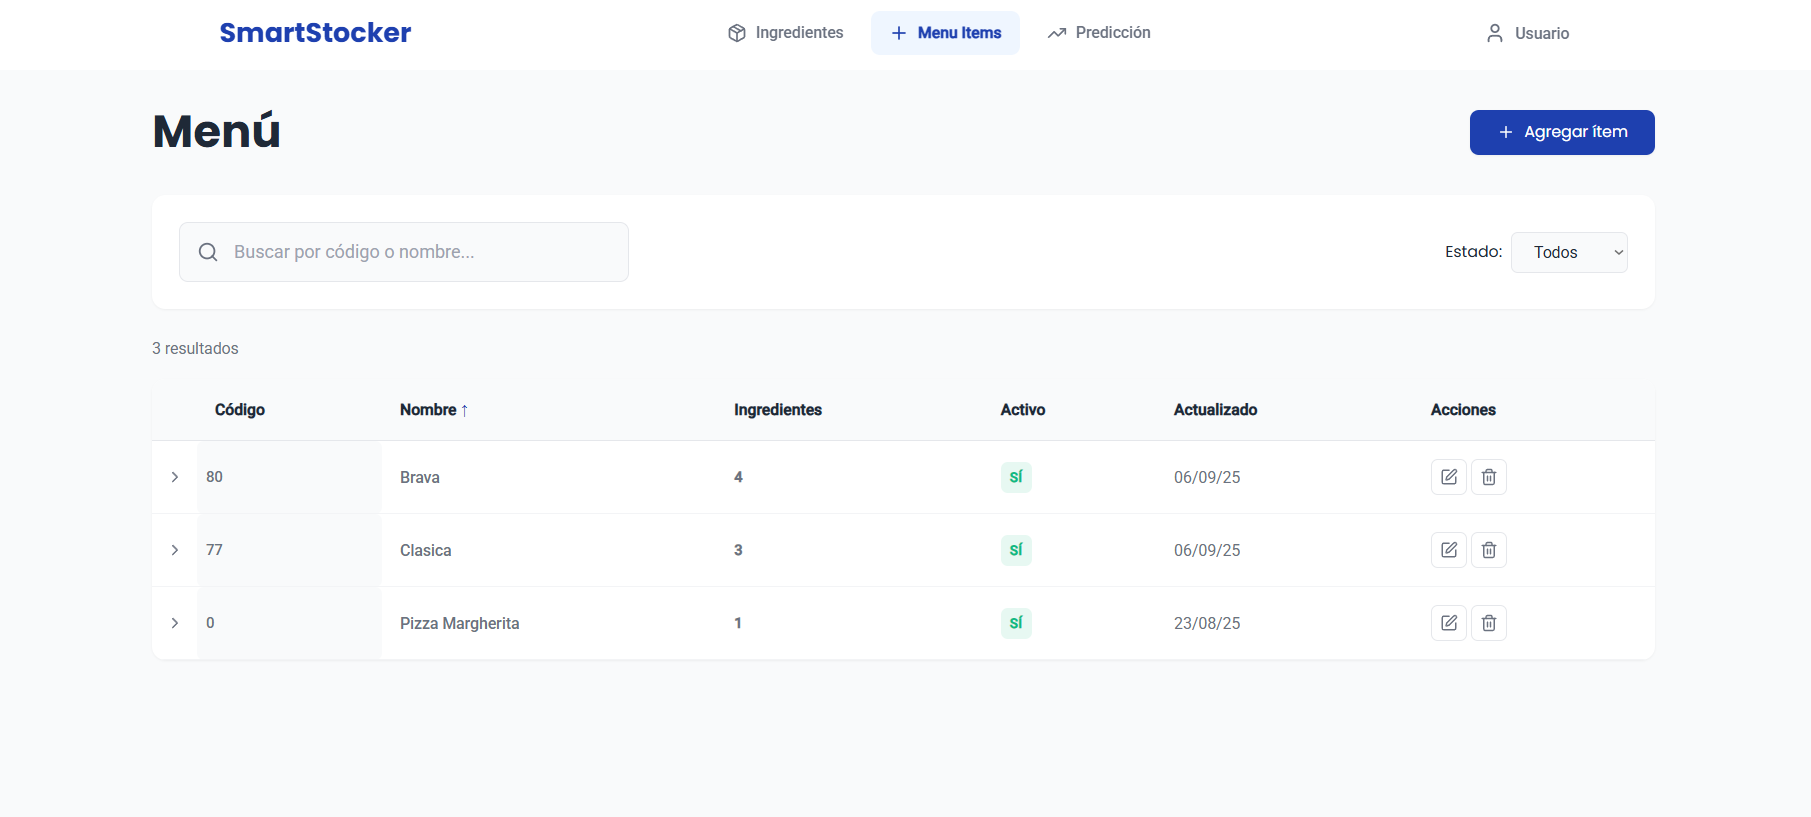
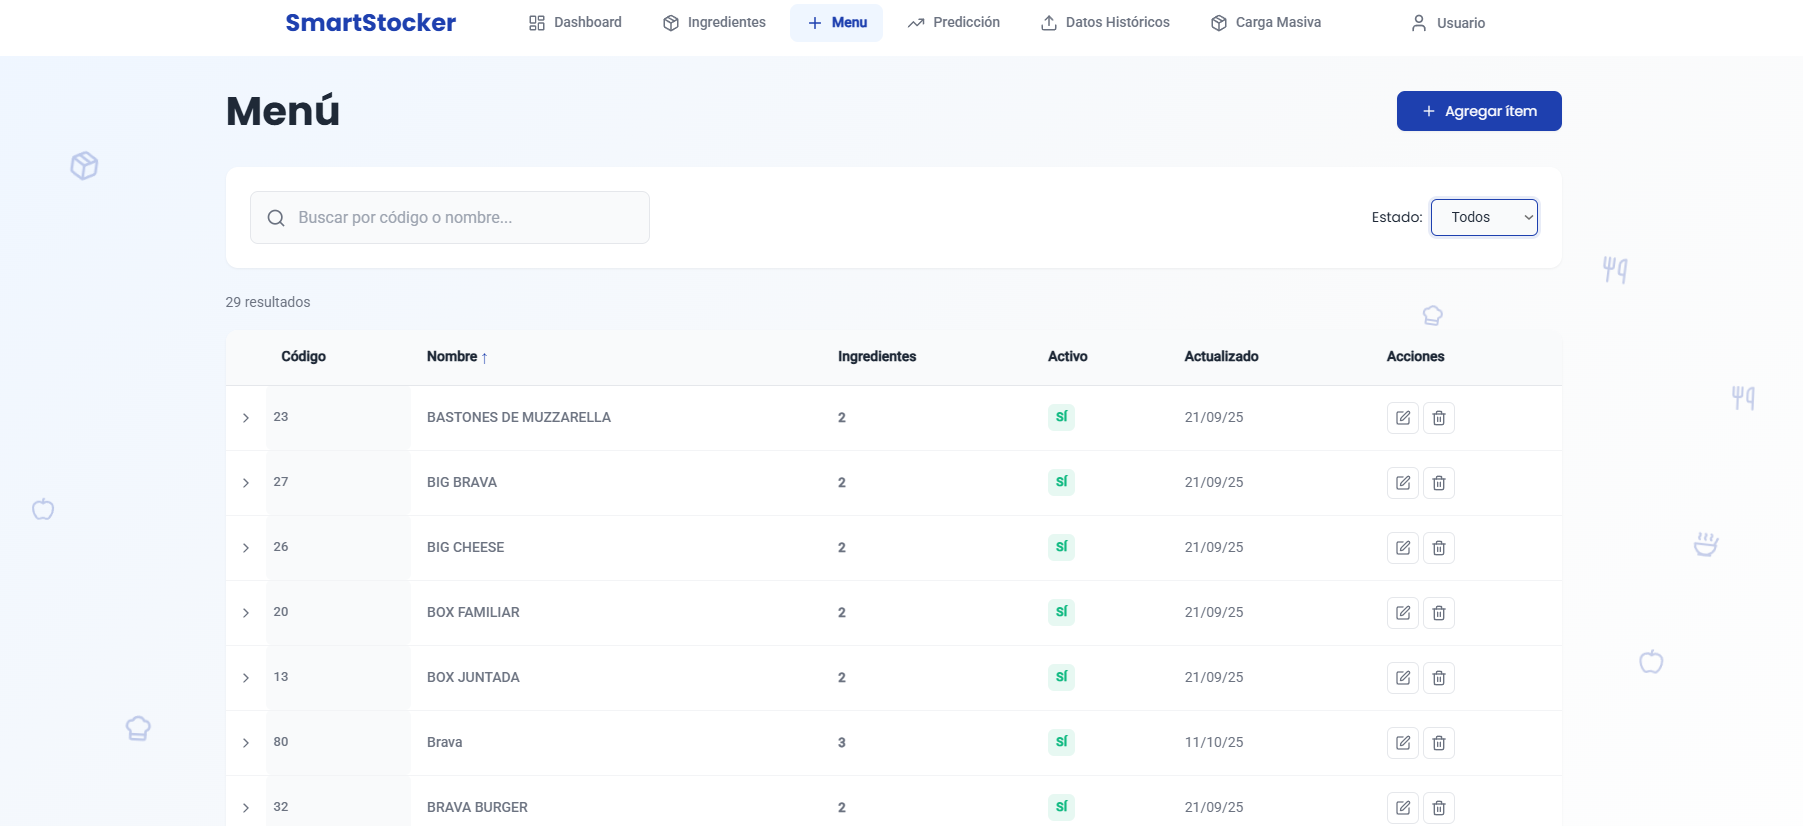
identidad de marca actualizado con logotipo y plataforma

diff --git a/chapters/chapter04.tex b/chapters/chapter04.tex
@@ -85,7 +85,44 @@ La capacidad de anticipar la demanda de productos constituye la funcionalidad ce
     \label{fig:flujo-prediccion}
 \end{figure}
 
-\section{Diseño UX / UI}
+\section{Identidad de marca}\label{subsec:identidad-marca}
+SmartStocker es una marca centrada en la toma de decisiones basada en datos para la gestión de inventarios gastronómicos. Su identidad se sostiene en tres ejes: claridad (información entendible y accionable), confiabilidad (resultados consistentes) y agilidad (respuestas oportunas para planificar compras y evitar quiebres o excedentes). La narrativa de marca comunica simplicidad y precisión: transformar registros de venta y contexto operativo en recomendaciones concretas de stock y alertas preventivas.
+
+\subsection{Misión}\label{subsec:mision}
+Impulsar la rentabilidad de restaurantes y locales gastronómicos mediante una plataforma que integra datos de venta en tiempo real, predice la demanda y traduce esos resultados en recomendaciones de compra y niveles de stock accionables. SmartStocker reduce quiebres y desperdicios, simplifica la operación diaria y convierte la gestión de inventario en un proceso preciso, automatizado y basado en evidencia.
+
+\subsection{Visión}\label{subsec:vision}
+Ser la referencia regional en optimización de inventarios gastronómicos mediante analítica predictiva, integrando datos operativos y conocimiento experto para elevar la toma de decisiones cotidiana.
+
+\subsection{Nombre}\label{subsec:nombre}
+El nombre SmartStocker combina \textit{Smart} (inteligente) y \textit{Stocker} (almacenista). La construcción comunica de manera directa el beneficio central: administrar inventarios con inteligencia. Es breve, fácil de pronunciar y recordar, y al estar en inglés facilita su adopción en distintos mercados y contextos tecnológicos.
+
+\subsection{Identidad visual}\label{subsec:identidad-visual}
+\paragraph{Concepto.} La identidad visual representa el pasaje de datos a decisiones. Se recurre a formas claras y proporciones estables que remiten a control, previsión y orden, evitando recursos recargados que resten legibilidad en entornos digitales.
+
+\paragraph{Logotipo tipográfico.}
+El logotipo tipográfico prioriza legibilidad y memorabilidad. La diferenciación visual se logra por color: \textit{Smart} en tono oscuro (negro/gris muy profundo) y \textit{Stocker} en azul corporativo, lo que facilita la lectura y refuerza el territorio semántico del producto (gestión de stock). Además, se utiliza capitalización inicial en cada palabra y composición en una sola línea.
+
+\begin{figure}[htbp]
+    \centering
+    \includegraphics[width=0.80\textwidth]{images/smartstocker-logotipo-tipografico.png}
+    \caption{Logotipo tipográfico de SmartStocker.}
+    {\textit{Fuente: Elaboración propia.}}
+    \label{fig:logo-tipografico-smartstocker}
+\end{figure}
+
+\paragraph{Imagotipo (isotipo + logotipo).}
+El imagotipo integra un isotipo geométrico que sugiere \textit{contenedor/caja} (inventario) y una flecha ascendente (proyección/abastecimiento), combinado con el logotipo. El isotipo admite uso independiente en tamaños reducidos (favicon, icono de app), mientras que el imagotipo es la versión preferente para cabeceras, presentaciones y piezas institucionales.
+
+\begin{figure}[htbp]
+    \centering
+    \includegraphics[width=0.70\textwidth]{images/smartstocker-imagotipo.png}
+    \caption{Imagotipo de SmartStocker (composición isotipo + logotipo).}
+    {\textit{Fuente: Elaboración propia.}}
+    \label{fig:imagotipo-smartstocker}
+\end{figure}
+
+\subsection{Paleta de Colores}\label{subsec:paleta-colores}
 
 El diseño visual de SmartStocker se sustenta en una paleta cromática la cual fue escogida con el propósito de transmitir profesionalismo, confianza y modernidad, atributos que resultan esenciales en un sistema orientado a la toma de decisiones estratégicas en el sector gastronómico. Ahora bien, la elección de los tonos se realizó considerando tanto la dimensión estética como la funcionalidad comunicativa de cada color dentro de la interfaz.
 
@@ -116,9 +153,8 @@ En conjunto, esta paleta de colores no responde únicamente a una intención est
     \label{tab:paleta-colores}
 \end{table}
 
-\section{Pantallas de la aplicación}
-
-A continuación, se presentan las principales pantallas de la aplicación SmartStocker, organizadas según el flujo de interacción del usuario. Estas capturas ilustran tanto la experiencia inicial (Figura~\ref{fig:ux-landing1} a \ref{fig:ux-landing5})  como la gestión de datos (Figura~\ref{fig:ux-ingredientes} a Figura~\ref{fig:ux-nuevo-ingrediente}) y las funcionalidades clave de predicción de ventas (Figura~\ref{fig:ux-predicciones} a Figura~\ref{fig:ux-prediccion2}).
+\subsection{Pantallas de la aplicación}\label{subsec:pantallas-aplicacion}
+A continuación se presentan las principales pantallas de la aplicación SmartStocker, ordenadas según el flujo de interacción. Estas capturas abarcan: la experiencia inicial (Figuras~\ref{fig:ux-landing1} a \ref{fig:ux-landing5} y \ref{fig:ux-login}); el dashboard (Figuras~\ref{fig:ux-dashboard1} a \ref{fig:ux-dashboard3}); la gestión de datos (Figuras~\ref{fig:ux-ingredientes}, \ref{fig:ux-items}, \ref{fig:ux-nuevo-item} y \ref{fig:ux-nuevo-ingrediente}); y las funcionalidades de predicción de ventas (Figuras~\ref{fig:ux-predicciones} a \ref{fig:ux-prediccion2}).
 
 \begin{figure}[htbp]
     \centering
@@ -166,6 +202,30 @@ A continuación, se presentan las principales pantallas de la aplicación SmartS
     \caption{Pantalla de inicio de sesión.}
     {\textit{Fuente: Elaboración propia.}}
     \label{fig:ux-login}
+\end{figure}
+
+\begin{figure}[htbp]
+    \centering
+    \includegraphics[width=0.9\textwidth]{images/dashboard1.png}
+    \caption{Dashboard – Vista general con métricas clave.}
+    {\textit{Fuente: Elaboración propia.}}
+    \label{fig:ux-dashboard1}
+\end{figure}
+
+\begin{figure}[htbp]
+    \centering
+    \includegraphics[width=0.9\textwidth]{images/dashboard2.png}
+    \caption{Dashboard – Predicciones de demanda y niveles de stock sugeridos.}
+    {\textit{Fuente: Elaboración propia.}}
+    \label{fig:ux-dashboard2}
+\end{figure}
+
+\begin{figure}[htbp]
+    \centering
+    \includegraphics[width=0.9\textwidth]{images/dashboard3.png}
+    \caption{Dashboard – Alertas y seguimiento de inventario por insumo.}
+    {\textit{Fuente: Elaboración propia.}}
+    \label{fig:ux-dashboard3}
 \end{figure}
 
 \begin{figure}[htbp]
